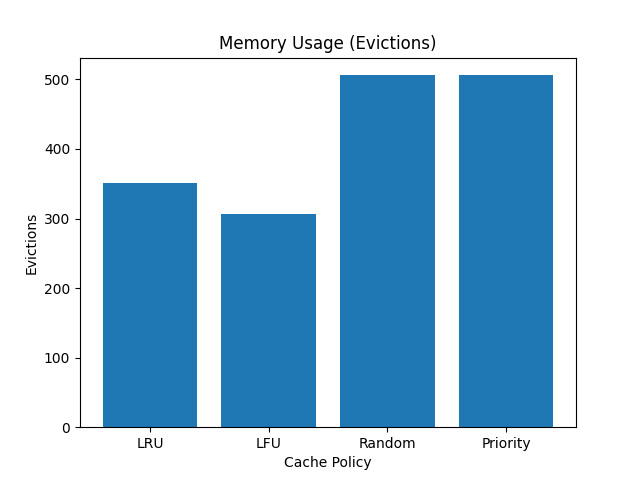
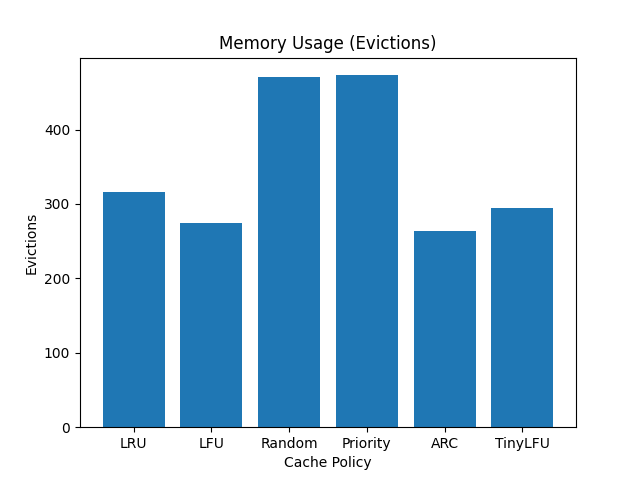
Added TinyLFU and ARC

diff --git a/cache/policies/arc.py b/cache/policies/arc.py
@@ -1,0 +1,102 @@
+from collections import deque
+from cache.policies.eviction_policy import EvictionPolicy
+
+
+class ARCPolicy(EvictionPolicy):
+
+    def __init__(self, capacity):
+
+        self.capacity = capacity
+
+        self.t1 = deque()
+        self.t2 = deque()
+
+        self.b1 = deque()
+        self.b2 = deque()
+
+        self.p = 0
+
+    def record_access(self, node):
+
+        key = node.key
+
+        # check if node already in lists
+        for n in list(self.t1):
+            if n.key == key:
+                self.t1.remove(n)
+                self.t2.appendleft(n)
+                return
+
+        for n in list(self.t2):
+            if n.key == key:
+                self.t2.remove(n)
+                self.t2.appendleft(n)
+                return
+
+        if key in self.b1:
+
+            self.p = min(self.capacity, self.p + 1)
+
+            self._replace()
+
+            self.b1.remove(key)
+            self.t2.appendleft(node)
+            return
+
+        if key in self.b2:
+
+            self.p = max(0, self.p - 1)
+
+            self._replace()
+
+            self.b2.remove(key)
+            self.t2.appendleft(node)
+            return
+
+        # new node
+
+        if len(self.t1) + len(self.b1) == self.capacity:
+
+            if len(self.t1) < self.capacity:
+
+                self.b1.pop()
+                self._replace()
+
+            else:
+
+                self.t1.pop()
+
+        elif len(self.t1) + len(self.b1) < self.capacity:
+
+            total = len(self.t1) + len(self.t2) + len(self.b1) + len(self.b2)
+
+            if total >= self.capacity:
+
+                if total == 2 * self.capacity:
+                    self.b2.pop()
+
+                self._replace()
+
+        self.t1.appendleft(node)
+
+    def _replace(self):
+
+        if len(self.t1) > 0 and (len(self.t1) > self.p):
+
+            node = self.t1.pop()
+            self.b1.appendleft(node.key)
+
+        else:
+
+            node = self.t2.pop()
+            self.b2.appendleft(node.key)
+
+    def evict(self):
+
+        if self.t1:
+            return self.t1.pop()
+
+        if self.t2:
+            return self.t2.pop()
+
+        return None

diff --git a/cache/policies/tinylfu.py b/cache/policies/tinylfu.py
@@ -1,0 +1,36 @@
+import heapq
+from cache.policies.eviction_policy import EvictionPolicy
+
+
+class TinyLFUPolicy(EvictionPolicy):
+
+    def __init__(self):
+
+        self.frequency = {}
+        self.heap = []
+        self.time = 0
+
+    def record_access(self, node):
+
+        key = node.key
+
+        if key not in self.frequency:
+            self.frequency[key] = 0
+
+        self.frequency[key] += 1
+
+        self.time += 1
+
+        heapq.heappush(self.heap, (self.frequency[key], self.time, node))
+
+    def evict(self):
+
+        while self.heap:
+
+            freq, t, node = heapq.heappop(self.heap)
+
+            if self.frequency.get(node.key, None) == freq:
+                del self.frequency[node.key]
+                return node
+
+        return None

diff --git a/cache/cache_engine.py b/cache/cache_engine.py
@@ -4,6 +4,8 @@ from cache.policies.lru import LRUCachePolicy
 from cache.policies.lfu import LFUCachePolicy
 from cache.policies.random_policy import RandomPolicy
 from cache.policies.priority_policy import PriorityPolicy
+from cache.policies.arc import ARCPolicy
+from cache.policies.tinylfu import TinyLFUPolicy
 
 
 class CacheEngine:
@@ -24,6 +26,10 @@ class CacheEngine:
             self.policy = RandomPolicy()
         elif policy == "Priority":
             self.policy = PriorityPolicy()
+        elif policy == "ARC":
+            self.policy = ARCPolicy(capacity)
+        elif policy == "TinyLFU":
+            self.policy = TinyLFUPolicy()    
         else:
             raise ValueError("Invalid policy")
 

diff --git a/main.py b/main.py
@@ -67,7 +67,7 @@ def find_best_policy(results):
 
 def main():
 
-    policies = ["LRU", "LFU", "Random", "Priority"]
+    policies = ["LRU", "LFU", "Random", "Priority", "ARC", "TinyLFU"]
 
     results = {}
 
